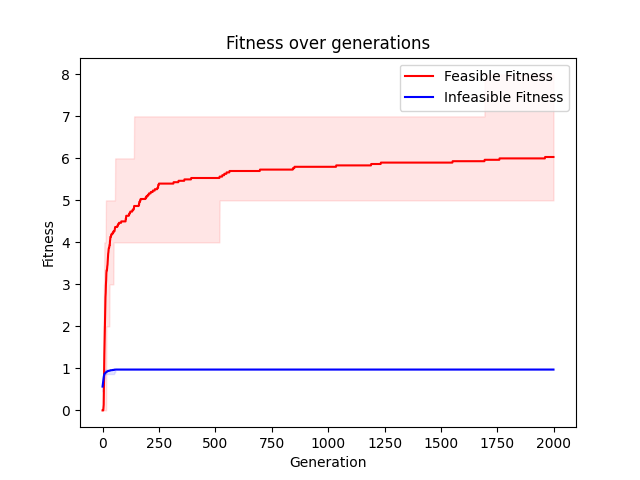
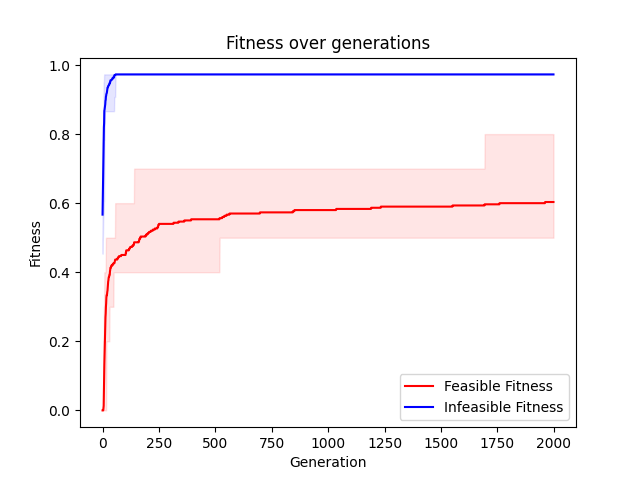
more visualization

diff --git a/DataVisualization.py b/DataVisualization.py
@@ -3,6 +3,7 @@ import numpy as np
 import pickle 
 from HintToEnglish import hint_to_english
 from Evolution import Category, Puzzle, apply_hints
+from LogicPuzzles import str_hint
 
 # def plot_history(history, folder):
 #     plt.plot(history.num_feasible)
@@ -20,7 +21,7 @@ from Evolution import Category, Puzzle, apply_hints
 #     plt.savefig(folder + '/fitness.png')
 
 
-def create_agg_plot(trials, color, label):
+def create_agg_plot(trials, color, label, normalize=False):
     x = list(range(0, len(trials[0])))
     
     trial_avg  = [] 
@@ -29,6 +30,8 @@ def create_agg_plot(trials, color, label):
 
     for gen in x:
         fitness = [trials[i][gen] for i in range(len(trials))]
+        if normalize and max(fitness) > 1:
+            fitness = list(map(lambda f: f/10, fitness))
         trial_avg.append(sum(fitness) / len(fitness))
         trial_max.append(max(fitness))
         trial_min.append(min(fitness))
@@ -45,7 +48,7 @@ def plot_histories(histories, folder):
     infeasible = [history.infeasible_fitness for history in histories]
     num_feasible = [history.num_feasible for history in histories]
 
-    fes_average = create_agg_plot(feasible, "red", "Feasible Fitness")
+    fes_average = create_agg_plot(feasible, "red", "Feasible Fitness", True)
     infes_average = create_agg_plot(infeasible, "blue", "Infeasible Fitness")
     plt.xlabel("Generation")
     plt.ylabel("Fitness")
@@ -91,6 +94,31 @@ def plot_type_vs_loops(loops, hint_pcts, folder):
     # plt.yticks(range(min(loops), max(loops)))
     plt.savefig(folder + '/hint_types_vs_loops.png')
 
+def plot_types_over_solve_time(hint_type_loops, folder):
+    def var_to_english(hint_type):
+        return hint_type.replace("_", " ")
+    plt.clf()
+
+    _, ax = plt.subplots()
+
+    max_loops = len(hint_type_loops["is"])
+    labels = []
+    for l in range(max_loops):
+        labels.append(str(l+1))
+
+    bottom = np.zeros(max_loops)
+    for hint_type, loops in hint_type_loops.items():
+        ax.bar(labels, loops, bottom=bottom, label=var_to_english(hint_type))
+        bottom += loops
+
+    ax.set_title("Hint types used by each solve loop")
+    ax.legend()
+    plt.ylabel("Hints Remaining in Solve Queue")
+    plt.xlabel("Solve Loop")
+
+    plt.savefig(folder + '/types_over_solve_time.png')
+
+
 def first_feasible(histories): 
     num_feasible = [history.num_feasible for history in histories]
     first_feasible = [[ n for n,i in enumerate(li) if i>0.7 ][0] for li in num_feasible]
@@ -129,6 +157,14 @@ def process_folder(experiement_folder, num_trials):
     per_puzzle_loops = []
     per_puzzle_duplicates = []
     total_duplicates = 0
+
+    hint_type_loops = {
+        'is': [],
+        'not': [],
+        'before': [],
+        'simple_or': [],
+        'compound_or': []
+    }
 
     for i in range(num_trials): 
         feasible, infeasible, history = pickle.load( open(experiement_folder + "/pop" + str(i) + ".p", "rb" ) )
@@ -202,6 +238,13 @@ def process_folder(experiement_folder, num_trials):
                 types_counts[kind] += 1           
                 total_counts[kind] += 1 
 
+                trace_key = str_hint(hint)
+                trace = hint_set_trace[trace_key]
+                while len(hint_type_loops[kind]) < loops:
+                    hint_type_loops[kind].append(0)
+                for l in trace:
+                    hint_type_loops[kind][l-1] += 1
+
         hint_file.write("\n\n")
 
         for key in types_counts: 
@@ -242,6 +285,11 @@ def process_folder(experiement_folder, num_trials):
         data_file.write("\n\t{}:{}".format(key, key_avg))
     plot_hint_type_averages(hint_type_averages, experiement_folder)
     plot_type_vs_loops(per_puzzle_loops, per_puzzle_pcts, experiement_folder)
+
+    for kind in hint_type_loops.keys():
+        while len(hint_type_loops[kind]) < max(per_puzzle_loops):
+            hint_type_loops[kind].append(0)
+    plot_types_over_solve_time(hint_type_loops, experiement_folder)
     
     # data_file.write("\n\nClues per Puzzle when Hint Type is included")
     # for key in per_puzzle_counts:
